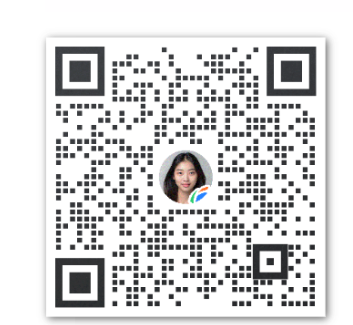
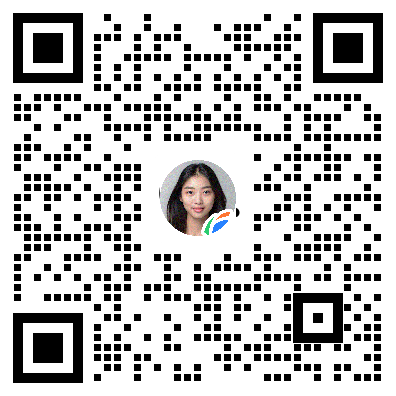
chore: update contact QR and hide phone

diff --git a/app/pricing/page.tsx b/app/pricing/page.tsx
@@ -16,7 +16,6 @@ import {
   GraduationCap,
   LayoutTemplate,
   Megaphone,
-  Phone,
   SearchCheck,
   ShieldCheck,
   ShoppingBag,
@@ -330,13 +329,6 @@ export default function PricingPage() {
                       领取套餐报价
                       <ArrowRight className="ml-2 size-4" />
                     </Link>
-                    <a
-                      href="tel:400-000-0000"
-                      className="inline-flex h-12 items-center justify-center gap-2 rounded-full border border-primary/25 bg-white px-6 text-sm font-medium text-primary shadow-sm transition-colors hover:bg-primary/5"
-                    >
-                      <Phone className="size-4" />
-                      400-000-0000
-                    </a>
                   </div>
                   <div className="mt-8 grid gap-3 sm:grid-cols-3">
                     {promoStats.map((item) => (
@@ -526,10 +518,6 @@ export default function PricingPage() {
               <Link href="/contact" className={cn(buttonVariants({ size: "lg" }), "h-12 bg-primary px-10 text-primary-foreground hover:bg-primary/90")}>
                 免费获取方案
               </Link>
-              <a href="tel:400-000-0000" className="inline-flex h-12 items-center gap-2 text-sm font-medium text-slate-200 hover:text-white">
-                <Phone className="size-4" />
-                400-000-0000
-              </a>
             </div>
           </div>
         </section>

diff --git a/app/about/page.tsx b/app/about/page.tsx
@@ -7,7 +7,7 @@ import { Badge } from "@/components/ui/badge"
 import { Card, CardContent } from "@/components/ui/card"
 import { Separator } from "@/components/ui/separator"
 import { cn } from "@/lib/utils"
-import { ArrowRight, Users, Target, Heart, Award, Phone, Mail, MapPin } from "lucide-react"
+import { ArrowRight, Users, Target, Heart, Award, Mail, MapPin } from "lucide-react"
 
 export const metadata: Metadata = {
   title: "关于立亭云 - 专注企业数字化增长的 SaaS 服务商",
@@ -173,9 +173,8 @@ export default function AboutPage() {
               <h2 className="text-3xl font-bold text-foreground mb-3">联系我们</h2>
               <p className="text-muted-foreground">无论您有任何问题，我们都乐于解答</p>
             </div>
-            <div className="grid grid-cols-1 md:grid-cols-3 gap-6">
+            <div className="grid grid-cols-1 md:grid-cols-2 gap-6">
               {[
-                { icon: Phone, label: "服务热线", value: "400-000-0000", sub: "周一至周六 09:00–18:00" },
                 { icon: Mail, label: "邮件咨询", value: "hello@litingyun.com", sub: "24 小时内回复" },
                 { icon: MapPin, label: "公司地址", value: "广州市天河区科技园", sub: "欢迎预约上门拜访" },
               ].map((contact) => (

diff --git a/components/home/cta.tsx b/components/home/cta.tsx
@@ -1,7 +1,7 @@
 import Link from "next/link"
 import { buttonVariants } from "@/components/ui/button"
 import { cn } from "@/lib/utils"
-import { ArrowRight, MessageCircle, Phone } from "lucide-react"
+import { ArrowRight, MessageCircle } from "lucide-react"
 
 export function CTA() {
   return (
@@ -22,13 +22,6 @@ export function CTA() {
           >
             规划获客方案
             <ArrowRight className="size-4 ml-2" />
-          </Link>
-          <Link
-            href="tel:400-000-0000"
-            className={cn(buttonVariants({ variant: "outline", size: "lg" }), "border-slate-600 text-slate-200 hover:bg-slate-800 hover:text-white bg-transparent h-12 text-base w-full sm:w-auto")}
-          >
-            <Phone className="size-4 mr-2" />
-            400-000-0000 咨询
           </Link>
         </div>
 

diff --git a/components/seo/json-ld.tsx b/components/seo/json-ld.tsx
@@ -19,18 +19,11 @@ export function OrganizationJsonLd() {
         },
         description:
           "立亭云提供 AI 建站、私域商城、AI 题库教育系统、门店管理、GEO 优化、AI 营销工具等一站式企业数字化解决方案，助力中小企业快速搭建线上业务，实现业绩增长。",
-        telephone: "400-000-0000",
         address: {
           "@type": "PostalAddress",
           addressCountry: "CN",
         },
         sameAs: [],
-        contactPoint: {
-          "@type": "ContactPoint",
-          telephone: "400-000-0000",
-          contactType: "customer service",
-          availableLanguage: "Chinese",
-        },
       },
       {
         "@type": "WebSite",

diff --git a/components/layout/header.tsx b/components/layout/header.tsx
@@ -16,7 +16,6 @@ import {
   ChevronDown,
   Menu,
   X,
-  Phone,
 } from "lucide-react"
 
 const products = [
@@ -195,13 +194,6 @@ export function Header() {
 
           {/* CTA */}
           <div className="hidden lg:flex items-center gap-3">
-            <a
-              href="tel:400-000-0000"
-              className="flex items-center gap-1.5 text-sm text-muted-foreground hover:text-primary transition-colors"
-            >
-              <Phone className="size-3.5" />
-              400-000-0000
-            </a>
             <Link href="/pricing" className={cn(buttonVariants({ variant: "outline", size: "sm" }))}>
               查看价格
             </Link>

diff --git a/app/cases/page.tsx b/app/cases/page.tsx
@@ -90,7 +90,7 @@ const cases = [
     product: "轻应用",
     result: "线上预约率达到 85%，爽约率降低 60%",
     duration: "1 个月",
-    quote: "之前客户预约全靠电话，经常有记错时间的情况。上线预约系统后，顾客自己选时间，自动提醒，爽约率直接降了 60%。",
+    quote: "之前客户预约全靠人工记录，经常有记错时间的情况。上线预约系统后，顾客自己选时间，自动提醒，爽约率直接降了 60%。",
     metrics: [
       { label: "线上预约率", value: "85%" },
       { label: "爽约率降低", value: "-60%" },
